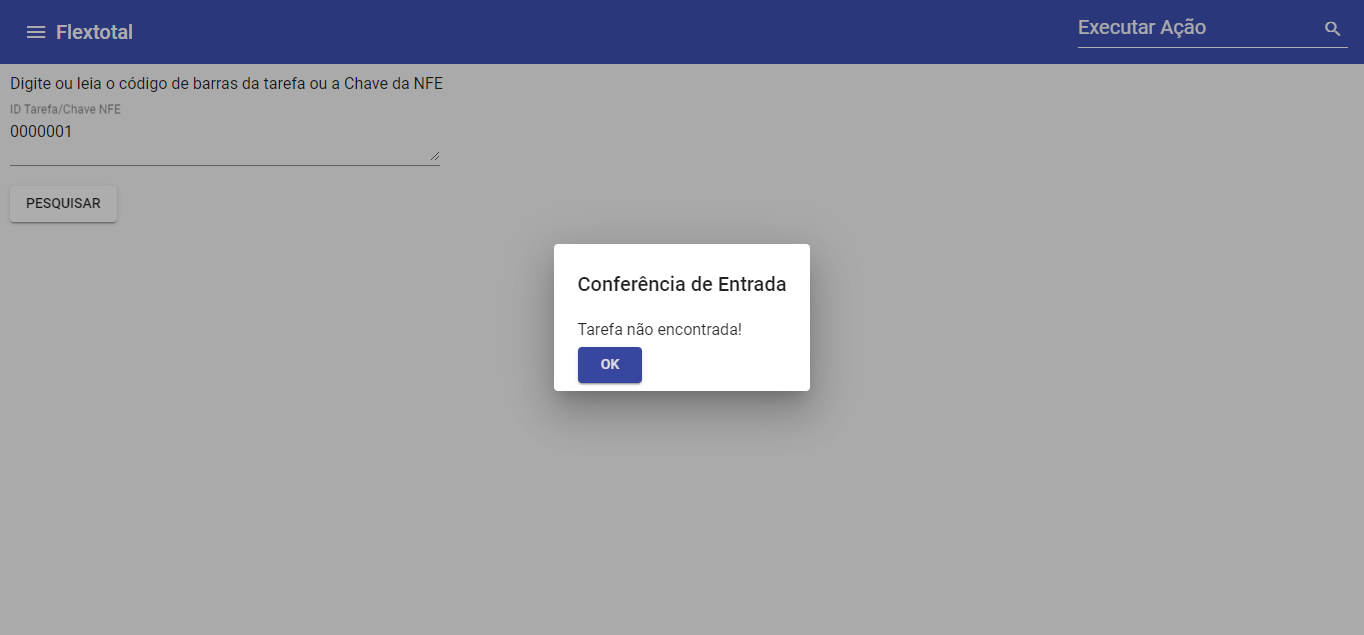
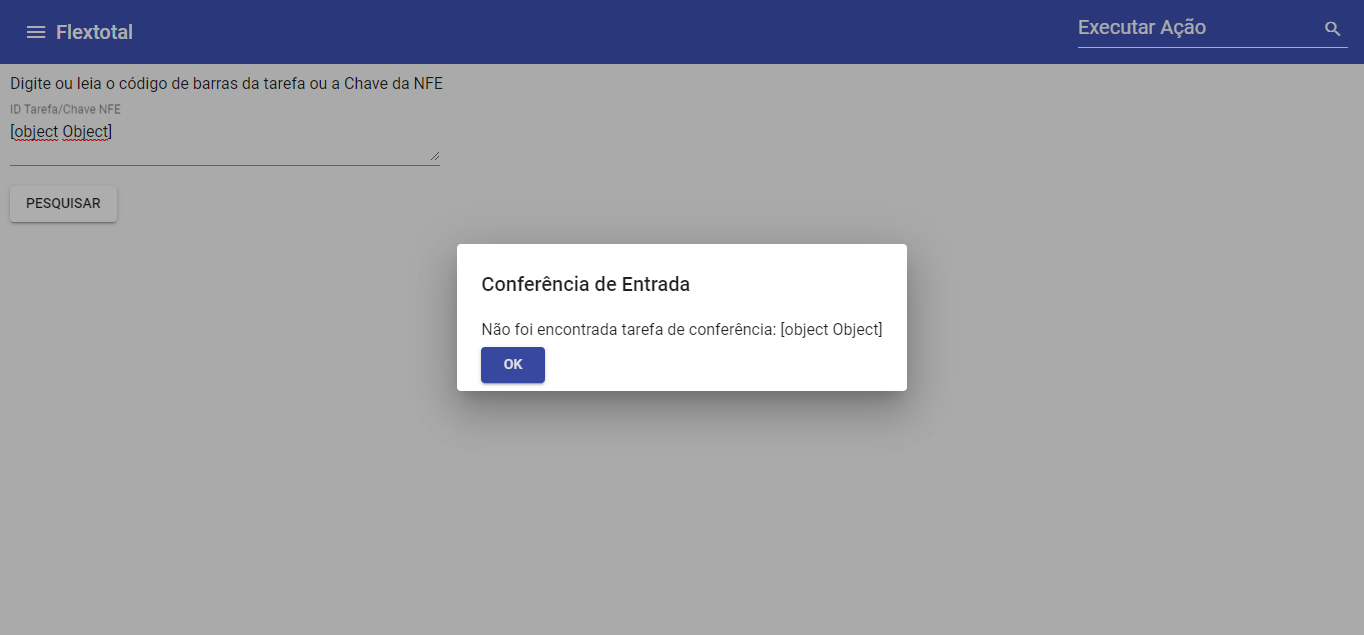
adicionadoConsultasNoBanco
adicionado consultas ao banco mas nao consigo chamar a variavel nos steps

Changed region(s): [[0.3079, 0.3591, 0.6774, 0.6583], [0.0, 0.1795, 0.0924, 0.2394]]

diff --git a/steps/104-W29-ConferenciaDeEntrada_test.js b/steps/104-W29-ConferenciaDeEntrada_test.js
@@ -1,21 +1,23 @@
 Feature('ConferenciaDeEntrada').tag('104');
-const { I, vouParaAbaPage } = inject()
-
+const idTarefa = require('../consulta')
+const { I, vouParaAbaPage,} = inject()
 const IdTarefaInvalido = ('0000001')
 const IdTarefaValido = ('1002704724687')
 const CdBarraUnidade = ('7896003816389')
 const CdBarraCaixa = ('67896003816381')
 const CdBarraInvalido = ('00000')
 
+
 //CONFERENCIA DE ENTRADA
 
 Scenario('104-01-Conferencia de entrada - inválido', () => {
-
+    
+    
     //EU VOU ATE A PAGINA W29
     vouParaAbaPage.IrParaPagina('https://192.168.1.128:9090/flextotal/user/estoque/conferenciaEntrada/pesquisar')
    
     //EU COLOCO O ID GERAL INVÁLIDO
-    I.fillField('/html/body/my-app/home/mat-sidenav-container/mat-sidenav-content/pesquisa-conferencia-component/div/div[1]/mat-form-field/div/div[1]/div/textarea',IdTarefaInvalido)
+    I.fillField('/html/body/my-app/home/mat-sidenav-container/mat-sidenav-content/pesquisa-conferencia-component/div/div[1]/mat-form-field/div/div[1]/div/textarea',idTarefa)
     //EU ESPERO    
     I.wait(1)
     //EU CLICO NO BOTAO PESQUISAR
@@ -26,51 +28,51 @@ Scenario('104-01-Conferencia de entrada - inválido', () => {
 
 }).tag('104-01');
 
-Scenario('104-02-Conferencia de entrada - válido', () => {
+// Scenario('104-02-Conferencia de entrada - válido', () => {
 
-    //EU VOU ATE A PAGINA W29
-    vouParaAbaPage.IrParaPagina('https://192.168.1.128:9090/flextotal/user/estoque/conferenciaEntrada/pesquisar')
+//     //EU VOU ATE A PAGINA W29
+//     vouParaAbaPage.IrParaPagina('https://192.168.1.128:9090/flextotal/user/estoque/conferenciaEntrada/pesquisar')
    
-    //EU COLOCO O ID GERAL 
-    I.fillField('/html/body/my-app/home/mat-sidenav-container/mat-sidenav-content/pesquisa-conferencia-component/div/div[1]/mat-form-field/div/div[1]/div/textarea', IdTarefaValido)
-    //EU ESPERO    
-    I.wait(1)
-    //EU CLICO NO BOTAO PESQUISAR
-    I.click('/html/body/my-app/home/mat-sidenav-container/mat-sidenav-content/pesquisa-conferencia-component/div/div[2]/button')
+//     //EU COLOCO O ID GERAL 
+//     I.fillField('/html/body/my-app/home/mat-sidenav-container/mat-sidenav-content/pesquisa-conferencia-component/div/div[1]/mat-form-field/div/div[1]/div/textarea', IdTarefaValido)
+//     //EU ESPERO    
+//     I.wait(1)
+//     //EU CLICO NO BOTAO PESQUISAR
+//     I.click('/html/body/my-app/home/mat-sidenav-container/mat-sidenav-content/pesquisa-conferencia-component/div/div[2]/button')
     
-    //EU ESPERO PELO TEXTO
-    I.waitForText('Nota Fiscal Nr: 123123 do Fornecedor: 100 - INCOESME IND COM DE ESQUADRIAS LTDA ME',10)
-    //EU ESPERO
-    I.wait(2)
-    //EU CLICO NO BOTAO CONTINUAR
-    I.click('/html/body/my-app/home/mat-sidenav-container/mat-sidenav-content/pesquisa-conferencia-component/div/div[3]/button[1]')
-    I.wait(2)
+//     //EU ESPERO PELO TEXTO
+//     I.waitForText('Nota Fiscal Nr: 123123 do Fornecedor: 100 - INCOESME IND COM DE ESQUADRIAS LTDA ME',10)
+//     //EU ESPERO
+//     I.wait(2)
+//     //EU CLICO NO BOTAO CONTINUAR
+//     I.click('/html/body/my-app/home/mat-sidenav-container/mat-sidenav-content/pesquisa-conferencia-component/div/div[3]/button[1]')
+//     I.wait(2)
 
-}).tag('104-02');
+// }).tag('104-02');
 
-Scenario('104-03-Conferencia de entrada - CD de Barras Inválido', () => {
+// Scenario('104-03-Conferencia de entrada - CD de Barras Inválido', () => {
 
-    //EU COLOCO O CD DDE BARRAS DO PRODUTO INVÁLIDO
-    I.fillField('/html/body/my-app/home/mat-sidenav-container/mat-sidenav-content/conferencia-entrada/div/div/form/div[2]/mat-form-field/div/div[1]/div/input', CdBarraInvalido)
-    //EU ESPERO
-    I.wait(1)
-    //EU CLICO NO BOTAO PARA CONTINUAR
-    I.click('/html/body/my-app/home/mat-sidenav-container/mat-sidenav-content/conferencia-entrada/div/div/form/div[2]/button[1]')
-    //EU ADICIONO O LOTE
-    I.wait(2)
-    I.waitForText('Este item não está na tarefa.',10)
+//     //EU COLOCO O CD DDE BARRAS DO PRODUTO INVÁLIDO
+//     I.fillField('/html/body/my-app/home/mat-sidenav-container/mat-sidenav-content/conferencia-entrada/div/div/form/div[2]/mat-form-field/div/div[1]/div/input', CdBarraInvalido)
+//     //EU ESPERO
+//     I.wait(1)
+//     //EU CLICO NO BOTAO PARA CONTINUAR
+//     I.click('/html/body/my-app/home/mat-sidenav-container/mat-sidenav-content/conferencia-entrada/div/div/form/div[2]/button[1]')
+//     //EU ADICIONO O LOTE
+//     I.wait(2)
+//     I.waitForText('Este item não está na tarefa.',10)
 
-}).tag('104-03');
+// }).tag('104-03');
 
-Scenario('104-04-Conferencia de entrada por unidade - CD Válido', () => {
+// Scenario('104-04-Conferencia de entrada por unidade - CD Válido', () => {
 
 
-    //EU RECARREGO A PAGINA
-    vouParaAbaPage.IrParaPagina('https://192.168.1.128:9090/flextotal/user/estoque/conferenciaEntrada/1002704747906')
+//     //EU RECARREGO A PAGINA
+//     vouParaAbaPage.IrParaPagina('https://192.168.1.128:9090/flextotal/user/estoque/conferenciaEntrada/1002704747906')
    
     
 
-}).tag('104-04');
+// }).tag('104-04');
 
 
 // Scenario('104-04-Conferencia de entrada por unidade - CD Válido', () => {

diff --git a/consulta.js b/consulta.js
@@ -1,0 +1,51 @@
+const { Client } = require('pg');
+const fs = require('fs');
+// Configuração da conexão com o banco de dados
+const client = new Client({
+    user: 'flextotal',
+    host: '192.168.1.235',
+    database: 'rezzadori_automacao_douglas',
+    password: 'Fl3xt0t@L',
+    port: 5432,
+});
+
+// Conecta ao banco de dados
+client.connect()
+    .then(() => {
+        console.log('Conexão estabelecida com sucesso!');
+
+        // Executa uma consulta
+        client.query("SELECT id_geral FROM tarefa_monitor tm WHERE cd_monitor = '01' AND cd_tarefa_status = '01' ORDER BY dt_atz DESC LIMIT 1;")
+            .then((result) => {
+                const idTarefa = result.rows[0].id_geral;
+                console.log('ID da tarefa:', idTarefa);
+
+
+                const fs = require('fs');
+
+                // Nome do arquivo a ser aberto ou criado
+                const nomeArquivo = 'C:/Users/flexmobile/Documents/var.txt';
+
+                // Variável a ser inserida no arquivo
+                const minhaVariavel = idTarefa;
+
+                // Escrever a variável no arquivo
+                fs.writeFile(nomeArquivo, minhaVariavel, 'utf8', (err) => {
+                    if (err) {
+                        console.error(`Erro ao escrever no arquivo ${nomeArquivo}:`, err);
+                        return;
+                    }
+
+                    console.log(`Variável '${minhaVariavel}' inserida no arquivo ${nomeArquivo}`);
+                });
+
+
+            })
+            .catch((err) => {
+                console.error('Erro ao executar a consulta:', err);
+            })
+
+    })
+    .catch((err) => {
+        console.error('Erro ao conectar ao banco de dados:', err);
+    });

diff --git a/pages/conectar.js b/pages/conectar.js
@@ -1,0 +1,40 @@
+// const { Client } = require('pg');
+// module.exports(conectarBancoDeDados)
+// // Método para estabelecer a conexão com o banco de dados
+// function conectarBancoDeDados() {
+
+//   const client = new Client({
+//     // Configurações de conexão com o banco de dados
+//     host: 'localhost',
+//     user: 'seu_usuario',
+//     password: 'sua_senha',
+//     database: 'seu_banco_de_dados',
+//     port: 5432, // Porta padrão do PostgreSQL
+//   });
+
+//   return client.connect()
+//     .then(() => {
+//       console.log('Conexão estabelecida com sucesso!');
+//       return client;
+//     })
+//     .catch((error) => {
+//       console.error('Erro ao conectar ao banco de dados:', error);
+//     });
+// }
+
+// // Exemplo de utilização do método
+// conectarBancoDeDados()
+//   .then((client) => {
+//     // Executa uma consulta
+//     client.query("SELECT id_geral FROM tarefa_monitor tm WHERE cd_monitor = '01' AND cd_tarefa_status = '01' ORDER BY dt_atz DESC LIMIT 1;")
+//       .then((result) => {
+//         const idTarefa = result.rows[0].id_geral; // Acessa o valor da coluna id_geral
+//         console.log('ID da tarefa:', idTarefa);
+
+//         // Exporta a variável idTarefa para outro arquivo
+//         module.exports = idTarefa;
+//       })
+//       .catch((error) => {
+//         console.error('Erro ao executar a consulta:', error);
+//       });
+//   });

diff --git a/abrindoarquivo.js b/abrindoarquivo.js
@@ -1,0 +1,11 @@
+// // Nome do arquivo a ser aberto ou criado
+// const nomeArquivo = 'C:/Users/flexmobile/Documents/var.txt';
+// // Escrever a variável no arquivo
+// fs.writeFile(nomeArquivo, minhaVariavel, 'utf8', (err) => {
+//   if (err) {
+//     console.error(`Erro ao escrever no arquivo ${nomeArquivo}:`, err);
+//     return;
+//   }
+
+//   console.log(`Variável '${residTarefa}' inserida no arquivo ${nomeArquivo}`);
+// });

diff --git a/codecept.conf.js b/codecept.conf.js
@@ -52,7 +52,8 @@ exports.config = {
     I: './steps_file.js',
     ZoomMenosPage: "./pages/ZoomMenos.js",
 
-    vouParaAbaPage: "./pages/VouParaAba.js"
+    vouParaAbaPage: "./pages/VouParaAba.js",
+    conectarPage: "./consulta.js"
   },
   name: 'Automacao-FLEXTOTAL'
 }
